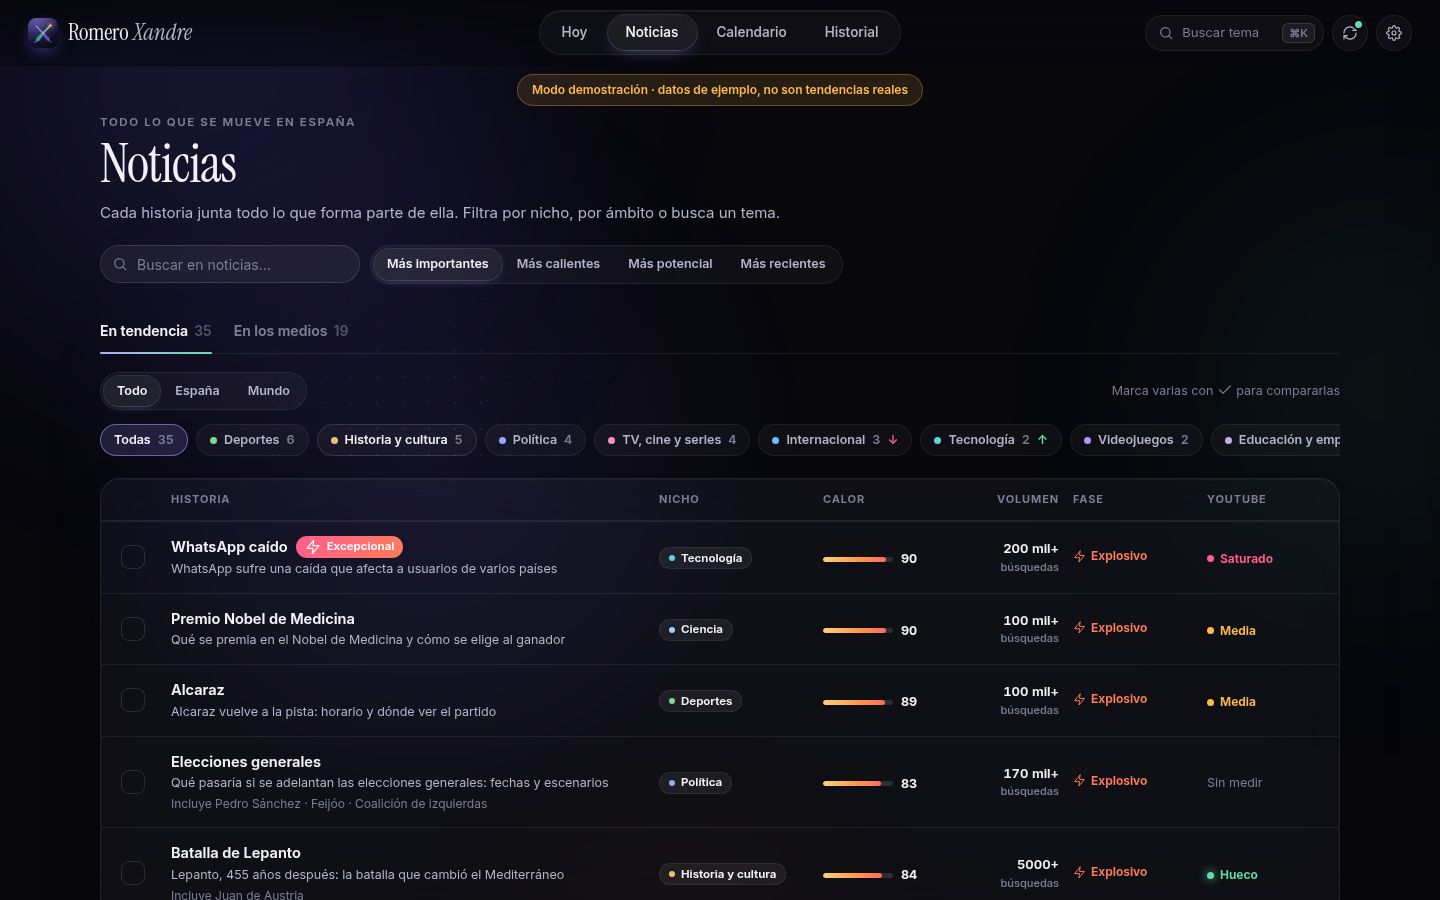
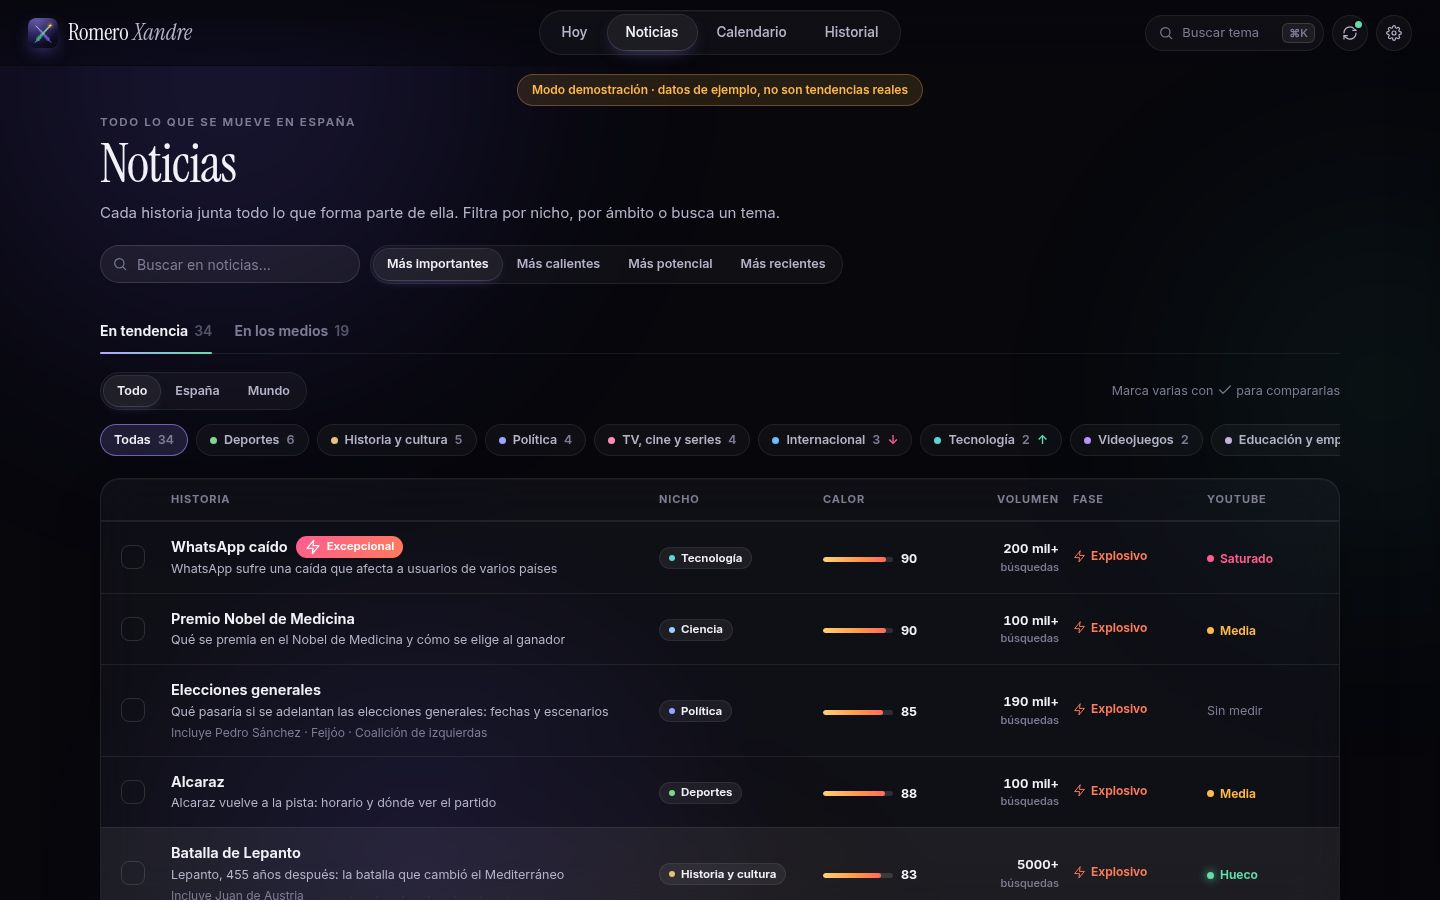
README y capturas al día; búsquedas totales de la historia señaladas en la ficha
Claude-Session: https://claude.ai/code/session_01Ey6LAY3D1nKTob2HQQDX1u

diff --git a/romero-crm/romero_crm/web/js/sheet.js b/romero-crm/romero_crm/web/js/sheet.js
@@ -102,7 +102,7 @@ function storyHtml(story, detail, loading) {
           <div class="window-track"><i style="width:${used.toFixed(1)}%"></i></div>
           <div class="small muted">${story.remaining_hours > 0.5 ? `Margen para publicar: <b style="color:var(--text)">~${esc(F.hours(story.remaining_hours))}</b>` : 'Margen casi agotado: mejor un ángulo de fondo que no caduque.'}</div></div>` : ''}
         <div class="stat-grid" style="margin-top:14px">
-          <div><span>Calor</span><b>${story.heat}</b></div><div><span>Búsquedas</span><b>${U.volume(story)}</b></div>
+          <div><span>Calor</span><b>${story.heat}</b></div><div><span>${(story.trends || 0) > 1 ? 'Búsquedas (total)' : 'Búsquedas'}</span><b>${U.volume(story)}</b></div>
           <div><span>En X</span><b>${story.x_rank ? `nº ${story.x_rank}` : '—'}</b></div><div><span>Medios</span><b>${story.outlets || '—'}</b></div></div>
       </section>
       ${members ? `<section class="sheet-section"><h3>Forma parte de esta historia</h3><div class="member-chips">${members}</div></section>` : ''}

diff --git a/romero-crm/README.md b/romero-crm/README.md
@@ -12,7 +12,7 @@ Es gratuito, funciona en tu Mac y no necesita cuentas. Conectar tus redes y las 
 
 | Sección | Para qué sirve |
 |---|---|
-| **Hoy** | Lo primero que ves. Las **cinco historias más calientes**, con prioridad para España: **qué ha pasado** (el titular real que lo explica), **cómo enfocarlo** y la **predicción** (potencial, fase, margen para publicar, búsquedas en Google y si hay hueco en YouTube). Si pasa algo excepcional, en España o en el mundo, sale primero y marcado como **Excepcional**. Debajo, **tu día** (lo que toca grabar o publicar, con su tic) y **lo que viene**: aniversarios y fechas de las próximas semanas con idea de vídeo. |
+| **Hoy** | Lo primero que ves. Las **cinco historias que más importan**, con prioridad para España: **qué ha pasado** (el titular real que lo explica), **cómo enfocarlo** y la **predicción** (potencial, fase, margen para publicar, búsquedas en Google y si hay hueco en YouTube). Si pasa algo excepcional, en España o en el mundo, sale primero y marcado como **Excepcional**. Debajo, **tu día** (lo que toca grabar o publicar, con su tic) y **lo que viene**: las fiestas y los aniversarios redondos de las próximas semanas que más vídeo dan (antes un acontecimiento que un cumpleaños, y lo español primero). |
 | **Noticias** | Todas las historias, **clasificadas por nichos** (política, TV, cine y series, deportes, historia…), con filtro España / Mundo, buscador y orden por importancia, calor, potencial o novedad. La pestaña **En los medios** enseña lo que cuentan los periódicos aunque aún no sea tendencia. |
 | **Calendario** | Un calendario de verdad, mes a mes. Tus tareas (**publicar, grabar, editar, guion, idea**) con su tic, tus vídeos publicados con sus visualizaciones, las **festividades** de España y los **aniversarios** que merecen un vídeo, con filtros de *solo redondos* y *solo España*. Pulsa un día para ver el detalle y planificar un vídeo con un clic. |
 | **Historial** | La semana en un vistazo: el **tema de la semana** (y cómo funcionaron los vídeos sobre él en YouTube), lo más grande de cada día, qué **nichos** subieron o bajaron, **a qué hora** arrancan las tendencias y tus vídeos de la semana. |
@@ -35,8 +35,11 @@ Y en cualquier sitio:
 ## Cómo elige y explica las historias
 
 - **Agrupa lo que es lo mismo.** Si «Pedro Sánchez», «Feijóo», «Coalición de izquierdas» y «Elecciones generales» son tendencia a la vez porque hablan de lo mismo, salen como **una sola historia** («Elecciones generales», que incluye a las demás). Se agrupan cuando comparten titulares, búsquedas relacionadas o se nombran entre sí, nunca solo por parecerse.
+- **Reconoce el acontecimiento.** Con datos reales del día de la convocatoria del 29-N, «Abascal», «Page», «PP y Vox», «PSOE» o el «Frente Amplio» entraron en las elecciones aunque ninguno dijera «elecciones» en el título: sus titulares hablaban de «adelanto electoral», «candidata» o «29-N». Y una huelga general convocada en plena campaña sigue siendo **otra** historia: dos acontecimientos distintos no se mezclan.
+- **El título es de lo que hablan todos**: «La bola negra», no uno de sus actores. Un apellido raro compartido (Ozores) une a una familia; uno común (Rodríguez) no une a nadie.
 - **España primero.** Las historias con protagonistas o lugares españoles suben en la portada; las de fuera necesitan ser más grandes para entrar, salvo que sean excepcionales.
-- **Excepcional** es raro a propósito: muchísimas búsquedas (más de 200 000 en España, 500 000 si es internacional), presencia en X o en muchos medios, varias plataformas a la vez y que acabe de pasar.
+- **Excepcional** es raro a propósito: muchísimas búsquedas (más de 200 000 en España, 500 000 si es internacional), presencia en X o en muchos medios, varias plataformas a la vez y que acabe de pasar. También lo es, durante su primer día, la historia que lo ocupa todo: seis o más tendencias sobre lo mismo, top 3 en X, ocho medios y tres plataformas (una convocatoria de elecciones generales, por ejemplo).
+- **Lo dudoso baja**: una tendencia de X de una sola palabra que en cada titular es una persona distinta («Rubén», «Cortés») no se explica con un titular al azar.
 - **Lo rutinario baja**: los partidos («Real Madrid - Villarreal») y los programas de cada semana se ven en Noticias, pero no ocupan la portada salvo que estén enormes.
 - **Qué ha pasado** es siempre un titular real de un medio (y un segundo de otro medio si aporta algo). Nada se inventa: si no hay titulares, lo dice.
 - **Cómo enfocarlo** sale de los datos: el momento (si está despegando, en su techo o apagándose), la competencia en YouTube, lo que pregunta la gente en Google («cuándo son las elecciones…»), el vídeo que más funciona ahora sobre ese tema, si tiene raíz histórica o si coincide con un aniversario.
